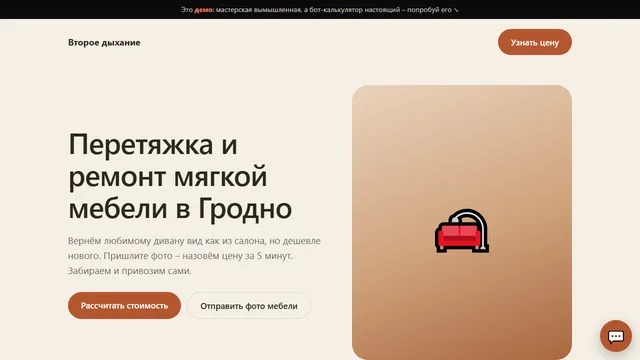
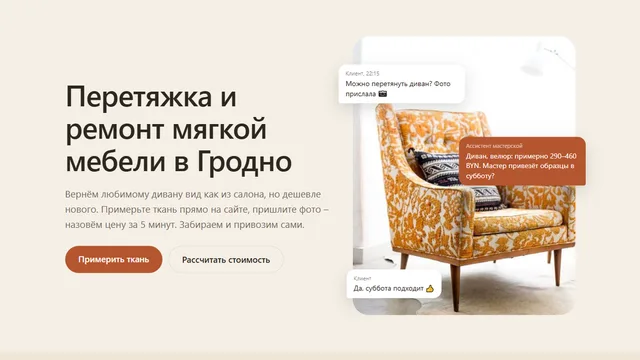
Demo mebel: photos, chat replicas, fabric try-on on sofa, works, quotes, Telegram lead mock, bot CTA; new cover

diff --git a/demo/mebel/index.html b/demo/mebel/index.html
@@ -4,25 +4,65 @@
 <meta charset="UTF-8">
 <meta name="viewport" content="width=device-width, initial-scale=1">
 <title>Мастерская «Второе дыхание» – перетяжка мебели (демо)</title>
-<meta name="description" content="Демо-визитка мастерской перетяжки мебели с ботом-калькулятором. Пример от Натальи Василенко.">
+<meta name="description" content="Демо-визитка мастерской перетяжки мебели с примеркой ткани и ботом-калькулятором. Пример от Натальи Василенко.">
 <meta property="og:title" content="Делаете мебель? Посмотрите, как вас могут находить клиенты">
-<meta property="og:description" content="Живой пример визитки мастерской с ботом: расчёт цены и заявка с фото. Попробуйте сами.">
-<meta property="og:image" content="https://vasilenkan72.github.io/portfolio/assets/img/cases/demo-mebel-og.jpg">
+<meta property="og:description" content="Живой пример визитки мастерской: примерка ткани на диван, расчёт цены и заявка с фото. Попробуйте сами.">
+<meta property="og:image" content="https://vasilenkan72.github.io/portfolio/assets/img/cases/demo-mebel-og.jpg?v=2">
 <meta property="og:url" content="https://vasilenkan72.github.io/portfolio/demo/mebel/">
 <meta name="robots" content="noindex">
 <link rel="icon" href="../../assets/img/favicon.svg" type="image/svg+xml">
 <link rel="stylesheet" href="../demo.css">
 <style>
   :root { --bg: #F5EFE6; --ink: #2E2620; --muted: #75685C; --accent: #B5562F; --card: #FFFBF5;
-    --alt: #EFE5D7; --line: #E0D3C1; --art: linear-gradient(160deg, #E9D3BC, #CFA27C 55%, #A8673F); }
-  .ba { display: grid; grid-template-columns: 1fr 1fr; gap: 8px; margin-bottom: 12px; }
-  .ba div { aspect-ratio: 1; border-radius: 12px; display: grid; place-items: center; font-size: 13px; color: #fff; font-weight: 600; }
-  .ba .b { background: repeating-linear-gradient(45deg, #9C8F84, #9C8F84 10px, #8E8176 10px, #8E8176 20px); }
-  .ba .a { background: var(--accent); }
+    --alt: #EFE5D7; --line: #E0D3C1; }
+  img { display: block; max-width: 100%; }
+  /* Фото на первом экране + реплики чата */
+  .hero-photo { position: relative; }
+  .hero-photo img { width: 100%; height: auto; aspect-ratio: 4/5; object-fit: cover; border-radius: 32px; }
+  .bubble { position: absolute; max-width: 250px; padding: 10px 14px; border-radius: 16px; font-size: 14px; line-height: 1.4;
+    box-shadow: 0 10px 30px rgba(0,0,0,.14); opacity: 0; transform: translateY(8px); animation: pop .5s ease forwards; }
+  .bubble small { display: block; font-size: 11px; opacity: .6; margin-bottom: 2px; }
+  .b-client { left: -28px; top: 10%; background: #fff; border-bottom-left-radius: 4px; animation-delay: .6s; }
+  .b-bot { right: -20px; top: 36%; background: var(--accent); color: #fff; border-bottom-right-radius: 4px; animation-delay: 1.6s; }
+  .b-client2 { left: -12px; bottom: 6%; background: #fff; border-bottom-left-radius: 4px; animation-delay: 2.6s; }
+  @keyframes pop { to { opacity: 1; transform: none; } }
+  /* Примерка ткани */
+  .fit { display: grid; grid-template-columns: 1.5fr 1fr; gap: 32px; align-items: start; }
+  .fit canvas { width: 100%; height: auto; border-radius: 24px; background: #eee; display: block; }
+  .swatches { display: grid; grid-template-columns: repeat(4, 1fr); gap: 10px; margin: 16px 0 20px; }
+  .sw { aspect-ratio: 1; border-radius: 14px; border: 3px solid transparent; cursor: pointer; padding: 0;
+    box-shadow: inset 0 0 0 1px rgba(0,0,0,.08); background-image: radial-gradient(rgba(255,255,255,.12) 1px, transparent 1.5px); background-size: 6px 6px; }
+  .sw[aria-pressed="true"] { border-color: var(--ink); }
+  .fit-name { font-weight: 700; font-size: 19px; }
+  .fit-price { font-size: 22px; font-weight: 700; color: var(--accent); margin: 6px 0 4px; }
+  .hint { font-size: 14px; }
+  /* Работы */
+  .work { padding: 0; overflow: hidden; }
+  .work img { width: 100%; aspect-ratio: 4/3; object-fit: cover; }
+  .work div { padding: 16px 20px 20px; }
+  .duo { display: grid; grid-template-columns: 1fr 1fr; gap: 32px; align-items: center; }
+  .duo img { border-radius: 24px; width: 100%; aspect-ratio: 3/2; object-fit: cover; }
+  .quote { position: relative; padding-top: 34px; }
+  .quote::before { content: "“"; position: absolute; top: 4px; left: 22px; font: 700 54px/1 Georgia, serif; color: var(--accent); opacity: .5; }
+  .quote .who { margin-top: 12px; font-size: 14px; color: var(--muted); }
+  /* Заявка мастеру в Telegram */
+  .tg { max-width: 420px; background: #17212B; color: #E9EEF2; border-radius: 18px; padding: 16px 18px; font-size: 15px; line-height: 1.5; box-shadow: 0 16px 40px rgba(0,0,0,.25); }
+  .tg .head { display: flex; gap: 10px; align-items: center; margin-bottom: 10px; font-weight: 600; }
+  .tg .ava { width: 34px; height: 34px; border-radius: 50%; background: var(--accent); display: grid; place-items: center; }
+  .tg .time { color: #7F91A4; font-size: 12px; text-align: right; margin-top: 6px; }
+  .side { display: grid; grid-template-columns: 1fr 1fr; gap: 40px; align-items: center; }
+  @media (max-width: 760px) {
+    .hero-photo { display: flex; flex-direction: column; gap: 8px; }
+    .hero-photo img { aspect-ratio: 1/1; margin-bottom: 8px; }
+    .bubble { position: static; max-width: 85%; font-size: 13px; }
+    .b-bot { margin-left: auto; }
+    .fit, .duo, .side { grid-template-columns: 1fr; }
+  }
+  @media (prefers-reduced-motion: reduce) { .bubble { animation: none; opacity: 1; transform: none; } }
 </style>
 </head>
 <body>
-<div class="demo-flag">Это <b>демо</b>: мастерская вымышленная, а бот-калькулятор настоящий – попробуй его ↘</div>
+<div class="demo-flag">Это <b>демо</b>: мастерская вымышленная, а примерка ткани и бот-калькулятор настоящие – попробуйте ↘</div>
 
 <div class="wrap">
   <header class="top">
@@ -33,17 +73,39 @@
   <div class="hero">
     <div>
       <h1>Перетяжка и ремонт мягкой мебели в Гродно</h1>
-      <p class="muted">Вернём любимому дивану вид как из салона, но дешевле нового. Пришлите фото – назовём цену за 5 минут. Забираем и привозим сами.</p>
+      <p class="muted">Вернём любимому дивану вид как из салона, но дешевле нового. Примерьте ткань прямо на сайте, пришлите фото – назовём цену за 5 минут. Забираем и привозим сами.</p>
       <div class="btns">
-        <a href="#" class="btn" data-bot="calc">Рассчитать стоимость</a>
-        <a href="#" class="btn ghost" data-bot="photo">Отправить фото мебели</a>
+        <a href="#primerka" class="btn">Примерить ткань</a>
+        <a href="#" class="btn ghost" data-bot="calc">Рассчитать стоимость</a>
       </div>
     </div>
-    <div class="hero-art" aria-hidden="true">🛋</div>
+    <div class="hero-photo">
+      <img src="img/hero.jpg" alt="Кресло после перетяжки" width="900" height="600">
+      <div class="bubble b-client"><small>Клиент, 22:15</small>Можно перетянуть диван? Фото прислала 📷</div>
+      <div class="bubble b-bot"><small>Ассистент мастерской</small>Диван, велюр: примерно 290–460 BYN. Мастер привезёт образцы в субботу?</div>
+      <div class="bubble b-client2"><small>Клиент</small>Да, суббота подходит 👍</div>
+    </div>
   </div>
 </div>
 
-<section class="alt">
+<section class="alt" id="primerka">
+  <div class="wrap">
+    <h2>Примерьте ткань на диван</h2>
+    <div class="fit">
+      <canvas id="fitCanvas" width="960" height="640" aria-label="Диван в интерьере, цвет обивки меняется"></canvas>
+      <div>
+        <p class="muted">Нажмите на образец, и диван «переоденется». В каталоге мастерской больше 200 тканей, мастер привезёт их к вам домой.</p>
+        <div class="swatches" id="swatches"></div>
+        <div class="fit-name" id="fitName"></div>
+        <div class="fit-price" id="fitPrice"></div>
+        <p class="muted hint">Цена за перетяжку дивана, точную мастер назовёт по фото.</p>
+        <p style="margin-top:18px"><a href="#" class="btn" data-bot="photo">Хочу этот цвет – отправить фото</a></p>
+      </div>
+    </div>
+  </div>
+</section>
+
+<section>
   <div class="wrap">
     <h2>Что мы делаем</h2>
     <div class="grid">
@@ -55,25 +117,39 @@
   </div>
 </section>
 
-<section>
+<section class="alt">
   <div class="wrap">
-    <h2>До и после</h2>
+    <h2>Наши работы</h2>
     <div class="grid">
-      <div class="card"><div class="ba"><div class="b">ДО</div><div class="a">ПОСЛЕ</div></div><h3>Диван «Честер»</h3><p class="muted">Экокожа, 4 дня</p></div>
-      <div class="card"><div class="ba"><div class="b">ДО</div><div class="a">ПОСЛЕ</div></div><h3>Бабушкино кресло</h3><p class="muted">Велюр, новый поролон, 3 дня</p></div>
-      <div class="card"><div class="ba"><div class="b">ДО</div><div class="a">ПОСЛЕ</div></div><h3>6 стульев</h3><p class="muted">Рогожка, 2 дня</p></div>
+      <div class="card work"><img src="img/rabota1.jpg" alt="Диван и кресло после перетяжки" loading="lazy"><div><h3>Комплект для гостиной</h3><p class="muted">Экокожа, новый поролон, 5 дней</p></div></div>
+      <div class="card work"><img src="img/rabota2.jpg" alt="Диван в лофте" loading="lazy"><div><h3>Угловой диван</h3><p class="muted">Рогожка «графит», 4 дня</p></div></div>
+      <div class="card work"><img src="img/rabota3.jpg" alt="Два дивана в полоску" loading="lazy"><div><h3>Пара диванов на дачу</h3><p class="muted">Хлопок в полоску, 6 дней</p></div></div>
     </div>
-    <p class="muted" style="margin-top:16px;font-size:15px">В настоящей визитке здесь будут ваши фото работ: это главное, что убеждает клиента.</p>
+    <p class="muted" style="margin-top:16px;font-size:15px">В настоящей визитке здесь будут ваши фото «до и после»: это главное, что убеждает клиента.</p>
+  </div>
+</section>
+
+<section>
+  <div class="wrap duo">
+    <img src="img/tkani.jpg" alt="Образцы тканей" loading="lazy" style="aspect-ratio:4/3">
+    <div>
+      <h2>Как мы работаем</h2>
+      <div class="grid" style="grid-template-columns:1fr">
+        <div class="card"><h3>1. Фото и цена</h3><p class="muted">Присылаете фото в чат, бот сразу называет примерную цену.</p></div>
+        <div class="card"><h3>2. Ткань дома</h3><p class="muted">Мастер привозит образцы, выбираете при своём свете и в своём интерьере.</p></div>
+        <div class="card"><h3>3. Работа и гарантия</h3><p class="muted">Забираем мебель, 2–5 дней, гарантия 1 год.</p></div>
+      </div>
+    </div>
   </div>
 </section>
 
 <section class="alt">
   <div class="wrap">
-    <h2>Как мы работаем</h2>
+    <h2>Что говорят клиенты</h2>
     <div class="grid">
-      <div class="card"><h3>1. Фото</h3><p class="muted">Присылаете фото в чат, бот сразу называет примерную цену.</p></div>
-      <div class="card"><h3>2. Ткань</h3><p class="muted">Привозим образцы тканей к вам домой.</p></div>
-      <div class="card"><h3>3. Работа</h3><p class="muted">Забираем мебель, 2–5 дней, гарантия 1 год.</p></div>
+      <div class="card quote"><p>Примерила три цвета на сайте, пока муж был на работе. Вечером уже спорили только про оттенок зелёного.</p><div class="who">Светлана, Гродно</div></div>
+      <div class="card quote"><p>Отправил фото в 11 вечера, через минуту знал цену. Без звонков и «перезвоним завтра».</p><div class="who">Андрей, Гродно</div></div>
+      <div class="card quote"><p>Бабушкино кресло теперь главное в комнате. Мастер привёз ткани домой, выбирали при нашем свете.</p><div class="who">Ирина, Скидель</div></div>
     </div>
   </div>
 </section>
@@ -82,34 +158,81 @@
   <div class="wrap">
     <p class="muted">Это демо сделала Наталья Василенко</p>
     <h2>Вы делаете мебель золотыми руками. А о вас знают только соседи?</h2>
-    <p class="muted" style="max-width:680px">Проверьте себя. Если хотя бы два пункта про вас, заказы уходят к тем, кого просто легче найти.</p>
-    <ul class="check">
-      <li>Фото ваших работ лежат в телефоне, и показать их клиенту можно только при встрече.</li>
-      <li>Каждый спрашивает «сколько стоит?», и вы в десятый раз считаете в переписке.</li>
-      <li>Заявки теряются между звонками, мессенджерами и работой в цеху.</li>
-      <li>Нет ссылки, которую клиент может переслать знакомым.</li>
-      <li>По запросу «перетяжка мебели Гродно» вас не найти.</li>
-    </ul>
-    <p style="max-width:680px;margin-bottom:28px">Такую визитку и бота-калькулятора я сделаю под вас за пару дней. А в NEURO рассказываю, как ИИ помогает мастерам находить заказы: подпишитесь, там будет польза.</p>
+    <div class="side">
+      <div>
+        <p class="muted">Проверьте себя. Если хотя бы два пункта про вас, заказы уходят к тем, кого просто легче найти.</p>
+        <ul class="check">
+          <li>Фото ваших работ лежат в телефоне, и показать их клиенту можно только при встрече.</li>
+          <li>Каждый спрашивает «сколько стоит?», и вы в десятый раз считаете в переписке.</li>
+          <li>Заявки теряются между звонками, мессенджерами и работой в цеху.</li>
+          <li>Нет ссылки, которую клиент может переслать знакомым.</li>
+        </ul>
+      </div>
+      <div>
+        <p style="margin-bottom:14px">А так выглядит заявка, которая приходит вам, пока вы в цеху:</p>
+        <div class="tg">
+          <div class="head"><div class="ava">🛋</div>Ассистент мастерской</div>
+          🆕 <b>Новая заявка</b><br>Что: диван, велюр «Изумруд»<br>Фото: 📎 2 шт.<br>Ориентир: 290–460 BYN<br>Выезд мастера: сб, 10–13<br>Телефон: +375 29 •••-••-12
+          <div class="time">22:16</div>
+        </div>
+      </div>
+    </div>
+    <p style="max-width:680px;margin:32px 0 28px">Такую визитку с примеркой ткани и ботом-калькулятором я сделаю под вас за пару дней. А в NEURO 24/7 рассказываю, как ИИ помогает мастерам находить заказы.</p>
     <div class="grid">
-      <div class="card"><h3>Старт</h3><p class="muted">Визитка + калькулятор или запись на сайте, заявки в Telegram и таблицу. 4–5 дней.</p><div class="price">650 BYN</div></div>
-      <div class="card"><h3>Под ключ</h3><p class="muted">Всё из «Старта» + Telegram-бот с приёмом фото, база тканей, которую правите сами, заявки в Telegram и таблицу. 7–10 дней.</p><div class="price">1 200 BYN</div></div>
+      <div class="card"><h3>Старт</h3><p class="muted">Визитка + калькулятор, заявки в Telegram и таблицу. 4–5 дней.</p><div class="price">650 BYN</div></div>
+      <div class="card"><h3>Под ключ</h3><p class="muted">Всё из «Старта» + примерка ваших тканей, Telegram-бот с приёмом фото, база тканей, которую правите сами. 7–10 дней.</p><div class="price">1 200 BYN</div></div>
       <div class="card"><h3>Поддержка</h3><p class="muted">Хостинг, работа бота 24/7, мелкие правки.</p><div class="price">60 BYN/мес</div></div>
     </div>
     <p class="note">🔥 Первым трём – скидка 30% в обмен на отзыв.</p>
     <div class="btns">
       <a class="btn" href="https://t.me/natallia_assistant_bot?start=demo_mebel" target="_blank" rel="noopener">Хочу такую же</a>
-      <a class="btn ghost" href="https://t.me/neuro24_7" target="_blank" rel="noopener">Читать NEURO в Telegram</a>
+      <a class="btn ghost" href="https://t.me/neuro24_7" target="_blank" rel="noopener">Читать NEURO 24/7 в Telegram</a>
     </div>
   </div>
 </section>
-<footer><div class="wrap">Демо-страница. Мастерская «Второе дыхание» вымышленная, совпадения случайны. Сделано: <a href="../../">Наталья Василенко</a></div></footer>
+<footer><div class="wrap">Демо-страница. Мастерская «Второе дыхание» и отзывы вымышлены, совпадения случайны. Фото: StockSnap (CC0). Сделано: <a href="../../">Наталья Василенко</a></div></footer>
 
 <script>
 // Цены для калькулятора: [от, до] в BYN и наценка за ткань
 const BASE = { "Диван": [250, 400], "Кресло": [120, 180], "Стулья (за 1 шт.)": [35, 50], "Кухонный уголок": [180, 280] };
 const FABRIC = { "Рогожка": 1, "Велюр": 1.15, "Экокожа": 1.3 };
 const opt = (obj, key, next) => Object.keys(obj).map((k) => ({ label: k, set: { [key]: k }, next }));
+const range = (item, fabric) => BASE[item].map((p) => Math.round(p * FABRIC[fabric] / 5) * 5);
+
+// Примерка: фото дивана + маска обивки, цвет накладывается умножением (тени и складки сохраняются)
+const SWATCHES = [
+  ["Велюр «Изумруд»", "Велюр", "#2E5E4E"], ["Рогожка «Графит»", "Рогожка", "#55575C"],
+  ["Экокожа «Карамель»", "Экокожа", "#A8683C"], ["Велюр «Терракота»", "Велюр", "#B0543A"],
+  ["Велюр «Сапфир»", "Велюр", "#2C3E6E"], ["Рогожка «Олива»", "Рогожка", "#7A7B4A"],
+  ["Велюр «Пудра»", "Велюр", "#D2A39A"], ["Рогожка «Молоко»", "Рогожка", "#EDE6DA"],
+];
+(function fit() {
+  const cv = document.getElementById("fitCanvas"), ctx = cv.getContext("2d");
+  const photo = new Image(), mask = new Image();
+  const layer = document.createElement("canvas"); layer.width = cv.width; layer.height = cv.height;
+  const lc = layer.getContext("2d");
+  let loaded = 0;
+  photo.onload = mask.onload = () => { if (++loaded === 2) pick(0); };
+  photo.src = "img/primerka.jpg"; mask.src = "img/primerka-mask.png";
+  const box = document.getElementById("swatches");
+  SWATCHES.forEach(([name, , color], i) => {
+    const b = document.createElement("button");
+    b.className = "sw"; b.style.backgroundColor = color; b.title = name; b.setAttribute("aria-label", name);
+    b.onclick = () => pick(i); box.append(b);
+  });
+  function pick(i) {
+    const [name, fabric, color] = SWATCHES[i];
+    lc.globalCompositeOperation = "source-over"; lc.clearRect(0, 0, layer.width, layer.height);
+    lc.fillStyle = color; lc.fillRect(0, 0, layer.width, layer.height);
+    lc.globalCompositeOperation = "multiply"; lc.drawImage(photo, 0, 0);
+    lc.globalCompositeOperation = "destination-in"; lc.drawImage(mask, 0, 0);
+    ctx.drawImage(photo, 0, 0); ctx.drawImage(layer, 0, 0);
+    [...box.children].forEach((b, j) => b.setAttribute("aria-pressed", j === i));
+    const [lo, hi] = range("Диван", fabric);
+    document.getElementById("fitName").textContent = name;
+    document.getElementById("fitPrice").textContent = `≈ ${lo}–${hi} BYN`;
+  }
+})();
 
 window.BOT = {
   title: "Второе дыхание", subtitle: "Расчёт цены · отвечает сразу",
@@ -126,7 +249,7 @@ window.BOT = {
     fabric: { text: "Какая ткань нравится?", options: opt(FABRIC, "fabric", "result") },
     result: {
       text: (s) => {
-        const [lo, hi] = BASE[s.item].map((p) => Math.round(p * FABRIC[s.fabric] / 5) * 5);
+        const [lo, hi] = range(s.item, s.fabric);
         return `${s.item}, ${s.fabric.toLowerCase()}: ориентировочно ${lo}–${hi} BYN.\nТочную цену мастер скажет по фото.`;
       },
       options: [{ label: "Отправить фото", next: "photo" }, { label: "Вызвать мастера", next: "visit" }] },

diff --git a/assets/js/data.js b/assets/js/data.js
@@ -116,12 +116,12 @@ const PROJECTS = [
     category: 'web',
     title: { ru: 'Визитка мастерской мебели + бот-калькулятор (демо)', en: 'Furniture workshop card + price bot (demo)' },
     description: {
-      ru: 'Готовое решение для мастеров перетяжки и мебели на заказ: работы «до/после», бот считает цену по виду мебели и ткани, принимает фото и записывает на замер. Мастерская вымышленная, бота можно попробовать.',
-      en: 'A ready-made solution for upholstery and custom furniture makers: before/after gallery, a bot that estimates price by item and fabric, takes photos and books a visit. The workshop is fictional, the bot is live.',
+      ru: 'Готовое решение для мастеров перетяжки и мебели на заказ: примерка ткани на диван в интерьере, работы, бот считает цену по виду мебели и ткани, принимает фото и записывает на замер. Мастерская вымышленная, бота можно попробовать.',
+      en: 'A ready-made solution for upholstery and custom furniture makers: fabric try-on on a sofa in a room, work gallery, a bot that estimates price by item and fabric, takes photos and books a visit. The workshop is fictional, the bot is live.',
     },
     tech: ['HTML/CSS', 'JavaScript', 'Калькулятор', 'GitHub Pages'],
     link: 'demo/mebel/',
-    image: 'assets/img/cases/demo-mebel-cover-sm.webp',
+    image: 'assets/img/cases/demo-mebel-cover-sm.webp?v=2',
   },
   {
     id: 15,

diff --git a/index.html b/index.html
@@ -415,7 +415,7 @@
   </footer>
 
   <script src="https://cdn.jsdelivr.net/npm/motion@12.41.0/dist/motion.js" integrity="sha384-3sYvT9pL8/Zz6rHr8YN2C+yqo26yw5O4zArJqoBl9CX0keXa++a9F7hWYezfc6Pp" crossorigin="anonymous"></script>
-  <script src="assets/js/data.js?v=6"></script>
+  <script src="assets/js/data.js?v=7"></script>
   <script src="assets/js/main.js?v=3"></script>
   <script src="assets/js/chat-script.js?v=2"></script>
   <script src="assets/js/chat.js"></script>
